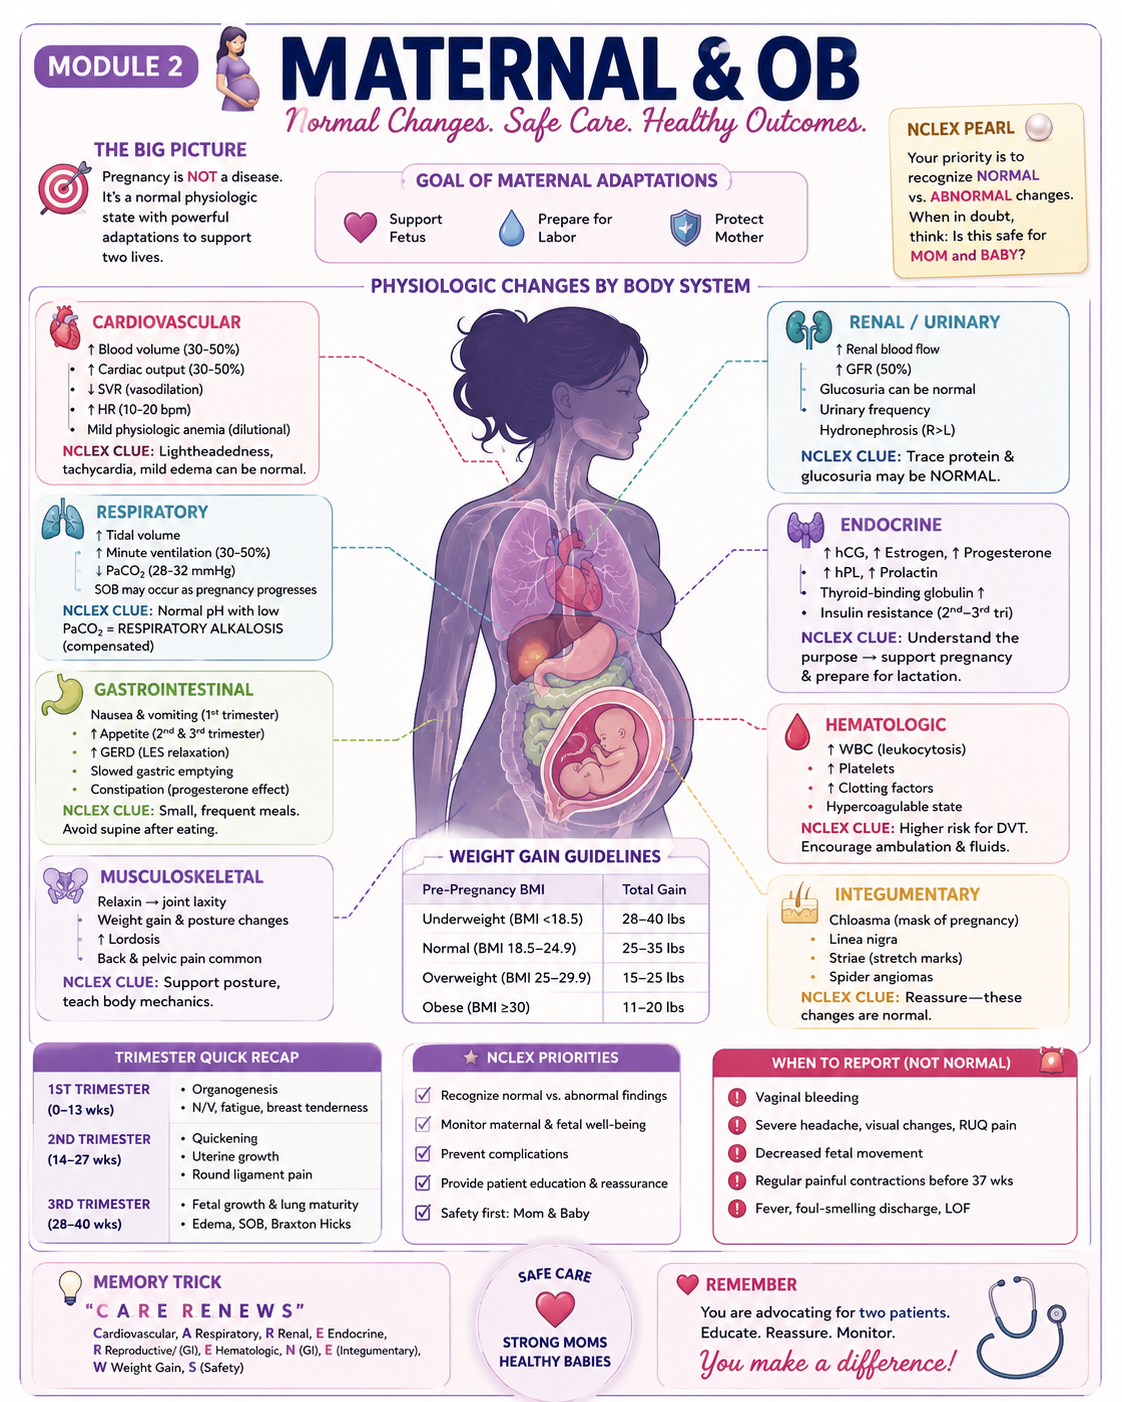
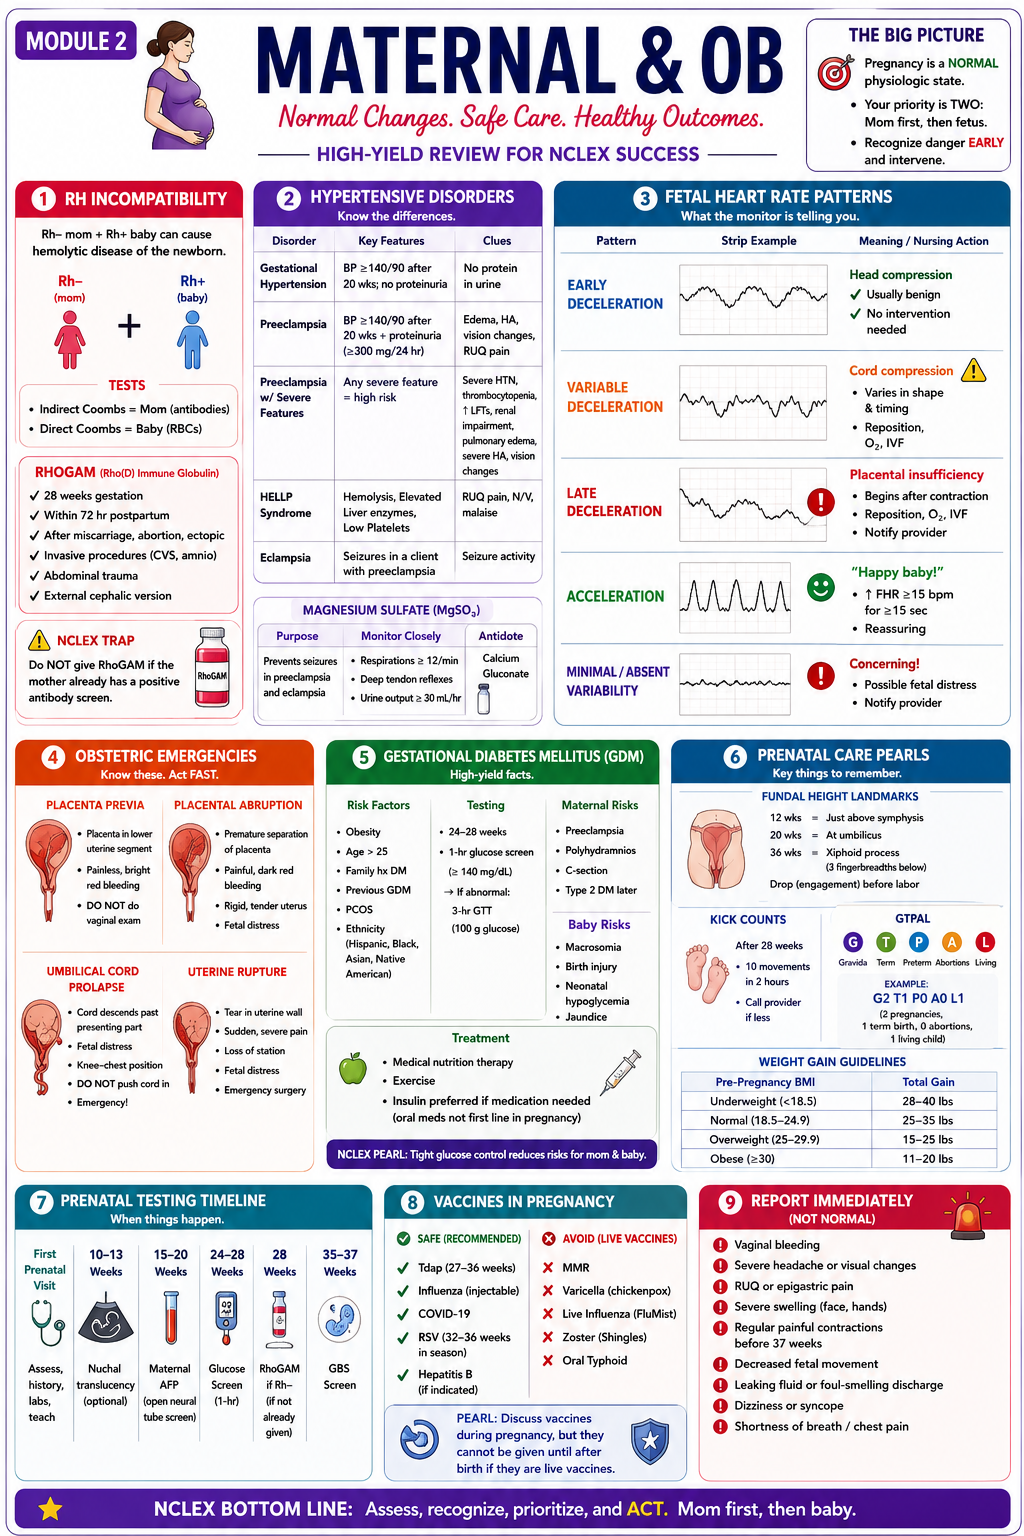
Add files via upload

diff --git a/module3-guide.html b/module3-guide.html
@@ -325,6 +325,56 @@ body{font-family:'Segoe UI',system-ui,sans-serif;background:var(--bg);color:var(
     </div>
   </div>
 
+  <!-- Infographic -->
+  <div style="text-align:center;margin:24px 0;">
+    <img src="module3-infographic.png" alt="Module 3 Pharmacology Essentials Infographic" style="max-width:100%;border-radius:12px;box-shadow:0 4px 16px rgba(0,0,0,.12);border:2px solid var(--border);">
+  </div>
+
+  <!-- Never Crush List -->
+  <h3 style="font-weight:800;color:var(--brand-dark);margin:24px 0 12px;">🚫 Never Crush / Break / Chew List</h3>
+  <div class="card" style="margin-bottom:20px">
+    <p style="margin-bottom:12px;font-size:.9rem;color:var(--muted)">Crushing these medications causes dose dumping, GI damage, or destroys the time-release mechanism:</p>
+    <div style="display:flex;gap:10px;flex-wrap:wrap;margin-bottom:14px">
+      <span style="background:var(--brand);color:#fff;padding:8px 14px;border-radius:8px;font-weight:700;font-size:.9rem">ER · Extended Release</span>
+      <span style="background:var(--brand);color:#fff;padding:8px 14px;border-radius:8px;font-weight:700;font-size:.9rem">XR · Extended Release</span>
+      <span style="background:var(--brand);color:#fff;padding:8px 14px;border-radius:8px;font-weight:700;font-size:.9rem">XL · Extended Release</span>
+      <span style="background:var(--brand);color:#fff;padding:8px 14px;border-radius:8px;font-weight:700;font-size:.9rem">SR · Sustained Release</span>
+      <span style="background:var(--brand);color:#fff;padding:8px 14px;border-radius:8px;font-weight:700;font-size:.9rem">CR · Controlled Release</span>
+      <span style="background:var(--brand);color:#fff;padding:8px 14px;border-radius:8px;font-weight:700;font-size:.9rem">LA · Long Acting</span>
+      <span style="background:var(--brand);color:#fff;padding:8px 14px;border-radius:8px;font-weight:700;font-size:.9rem">EC · Enteric Coated</span>
+    </div>
+    <div class="alert alert-yellow" style="margin-bottom:0"><strong>NCLEX Application</strong> If a patient has a feeding tube or difficulty swallowing, always check if the tablet can be crushed BEFORE giving it. If it cannot → contact the provider for an alternative formulation (liquid, patch, different drug).</div>
+  </div>
+
+  <!-- Drug Calculations -->
+  <h3 style="font-weight:800;color:var(--brand-dark);margin:24px 0 12px;">🧮 Drug Calculation Conversions (Must Memorize)</h3>
+  <div class="grid-2" style="margin-bottom:20px">
+    <div class="card">
+      <h3>Essential Conversions</h3>
+      <ul style="font-size:.9rem;line-height:2;">
+        <li><strong>1 g</strong> = 1,000 mg</li>
+        <li><strong>1 mg</strong> = 1,000 mcg</li>
+        <li><strong>1 mEq</strong> = 1 mmol (approx.)</li>
+        <li><strong>1 mL</strong> = 1 cc</li>
+        <li><strong>1 unit insulin</strong> = 1 mL in U-100 syringe</li>
+        <li><strong>mcg</strong> = microgram · <strong>mg</strong> = milligram · <strong>g</strong> = gram</li>
+        <li><strong>mL</strong> = milliliter · <strong>mEq</strong> = milliequivalent</li>
+      </ul>
+    </div>
+    <div class="card">
+      <h3>Key Medication Vocabulary</h3>
+      <ul style="font-size:.9rem;line-height:1.9;">
+        <li><strong>Loading dose:</strong> Higher initial dose to reach therapeutic level fast</li>
+        <li><strong>Maintenance dose:</strong> Ongoing dose to maintain therapeutic effect</li>
+        <li><strong>Peak:</strong> Highest drug concentration in blood</li>
+        <li><strong>Trough:</strong> Lowest drug concentration (drawn just before next dose)</li>
+        <li><strong>Half-life:</strong> Time for drug level to decrease by 50%</li>
+        <li><strong>Steady state:</strong> Drug intake = elimination; level is stable (4–5 half-lives)</li>
+        <li><strong>Therapeutic index:</strong> Difference between toxic and therapeutic levels</li>
+      </ul>
+    </div>
+  </div>
+
   <!-- Suffix Cheat Sheet -->
   <h3 style="font-weight:800;color:var(--brand-dark);margin:24px 0 12px;">⚡ Drug Class Suffix Cheat Sheet</h3>
   <table class="tbl">
